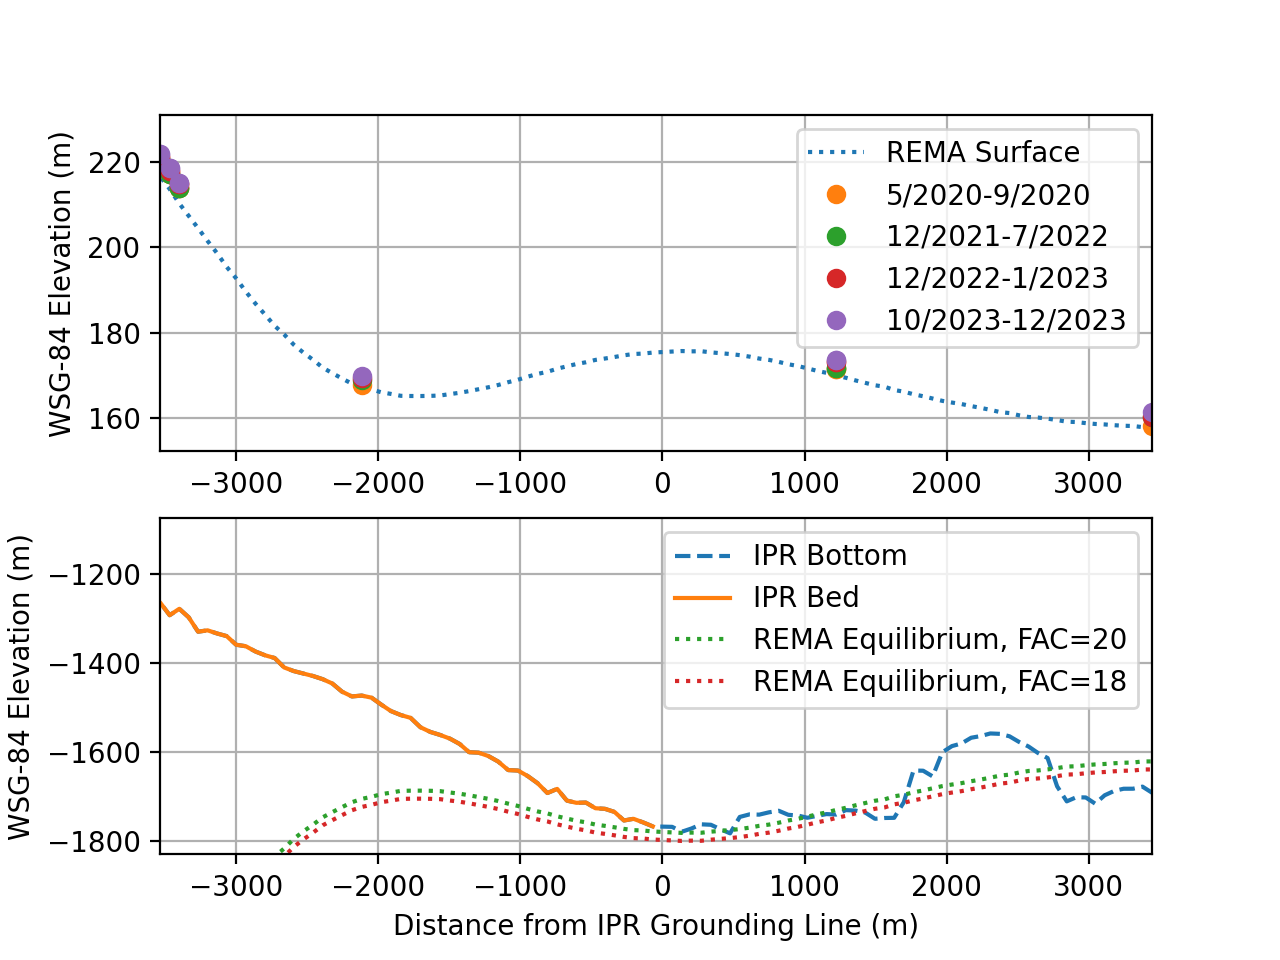
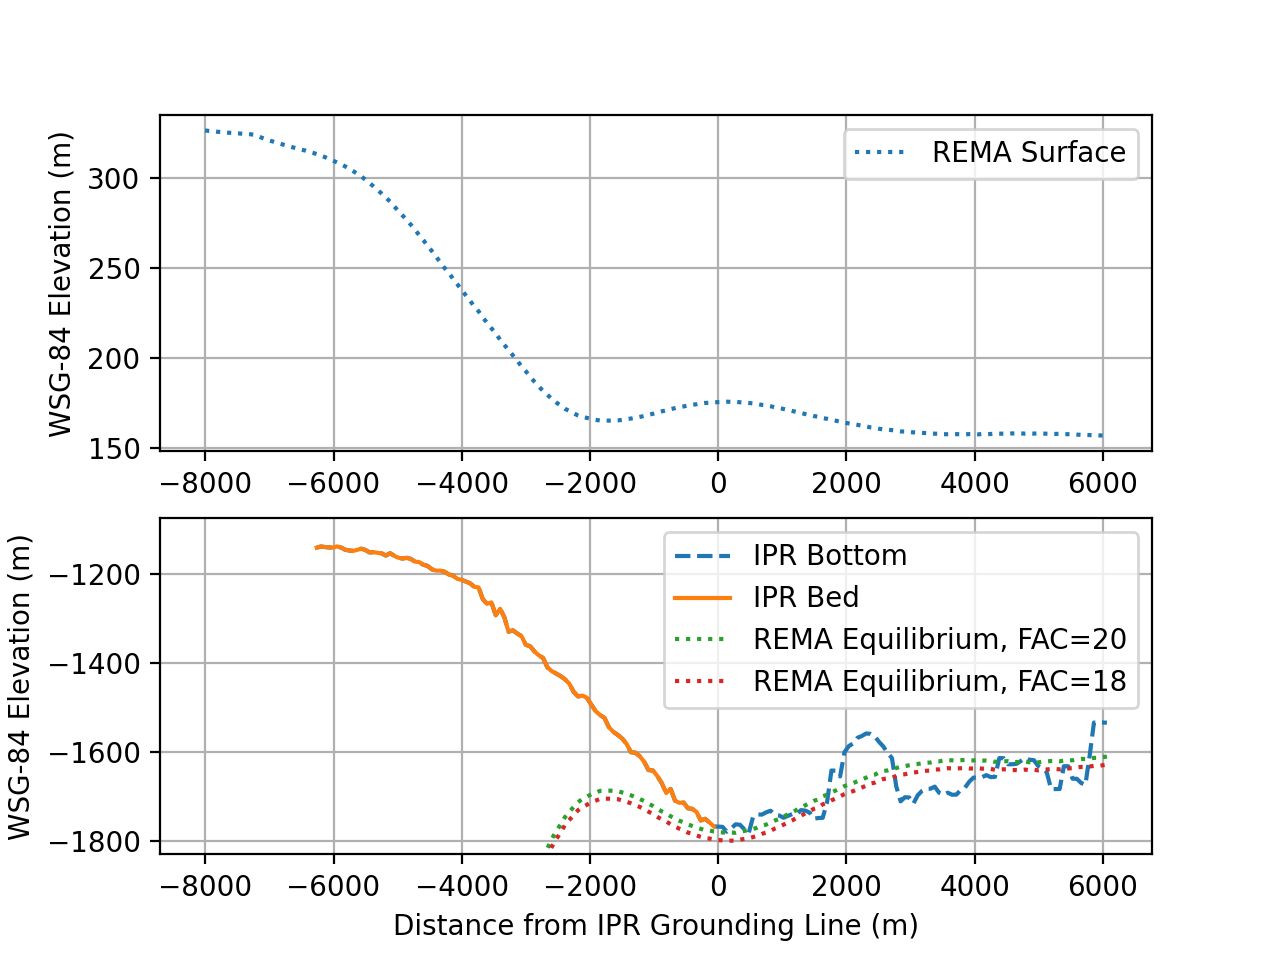
equilibrium commented and clarified

diff --git a/src/pointwise.py b/src/pointwise.py
@@ -839,27 +839,31 @@ class FlowProfile(Pointwize):
     
 
     def get_equilibrium(self, elevations, FAC=20):
-        sea_level_elevation = SEA_LEVEL_ELEVATION
 
-        elevations += sea_level_elevation # adjust to local water level
+        new_elevations = elevations + SEA_LEVEL_ELEVATION # Rise from WSG-84 to relative to local sea level
+        new_elevations -= FAC # remove firn air content
 
-        remaining_elevations = (elevations - FAC) # remove FAC
-        total_height = (remaining_elevations) / 0.1 #above water represents 10% of total height(+)
+        total_elevation = new_elevations / 0.1 # remaining height is 10% of total, so this obtains the total
+        total_elevation -= new_elevations # remove the 10% above the surface
+        total_elevation = -total_elevation # INVERSION: now working with negative values
 
-        return -(total_height - remaining_elevations) - sea_level_elevation # total (+) - non-FAC above water (+) gives thickness underwater. This is made -, adjust back to WSG-84 from sea level
+        final_elevations = total_elevation - SEA_LEVEL_ELEVATION # Adjust from local sea level to WSG-84
+        return final_elevations
+
+
 
     def invert_equilibrium(self, elevations, FAC=20):
-        sea_level_elevation = SEA_LEVEL_ELEVATION
 
-        elevations += sea_level_elevation # adjust to local water level
+        new_elevations = elevations + SEA_LEVEL_ELEVATION # Rise from WSG-84 to relative to local sea level
 
-        total_height = (elevations / 0.9) # elevations represents 90% of total height(-) (not including firn)
-        
-        remaining_elevations = total_height - elevations #total(-) - elevations(-) gives us the 10% above water
-        
+        total_elevation = new_elevations / 0.9 # Height is 90% of total, so this obtains the total
+        total_elevation -= new_elevations # remove the 90% under the surface
+        total_elevation = -total_elevation # INVERSION: now working with positive values
 
-        return (-remaining_elevations) + FAC - sea_level_elevation #invert the height and add the FAC, adjust back to WSG-84 from sea level
-    
+        total_elevation += FAC # add the firn air content to the height
+
+        final_elevations = total_elevation - SEA_LEVEL_ELEVATION # Adjust from local sea level to WSG-84
+        return final_elevations
 
     def get_simple_equilibrium(self, elevations):
         total_height = (elevations / 0.1)
@@ -875,7 +879,7 @@ class FlowProfile(Pointwize):
         rema_vals = self.geotiff_s_join(out, self.fl)
         ax[0].plot(rema_vals['dists'], rema_vals['vals'], ls='dotted', marker= 'None', label='REMA Surface')
         
-        for x in self.dates:
+        '''for x in self.dates:
             label = self.get_data(x)
             for y in range(len(label)):
                 label[y] = str(label[y].month) + '/' + str(label[y].year)
@@ -888,7 +892,7 @@ class FlowProfile(Pointwize):
             self.results[x] = self.results[x].sort_values(by='time')
             p.plot_elevation_data(fig, ax, 
                                   self.results[x]['time'], self.results[x]['gl'],
-                                  label=str(label))
+                                  label=str(label))'''
             
 
         